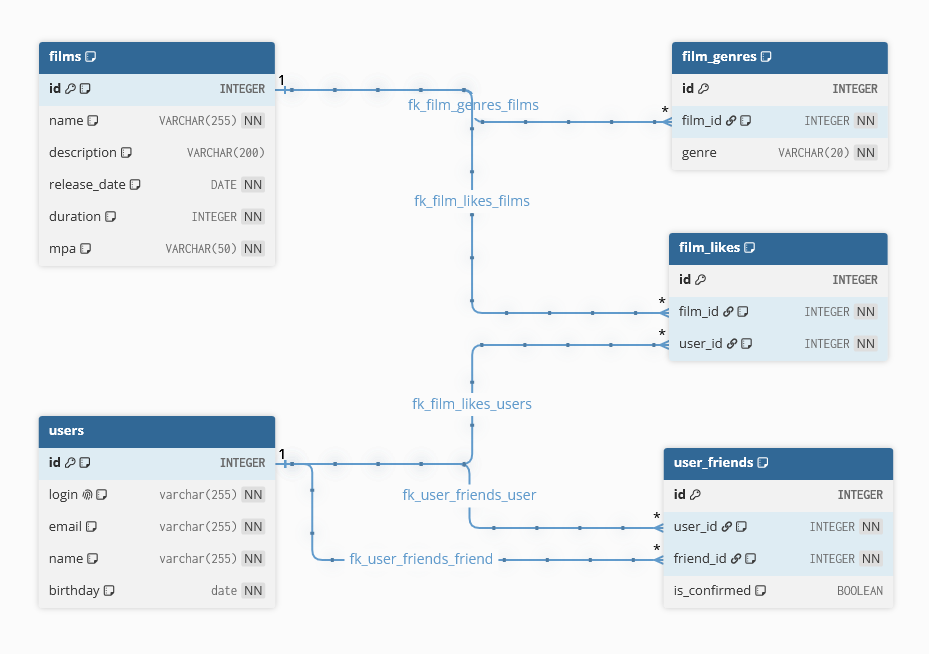
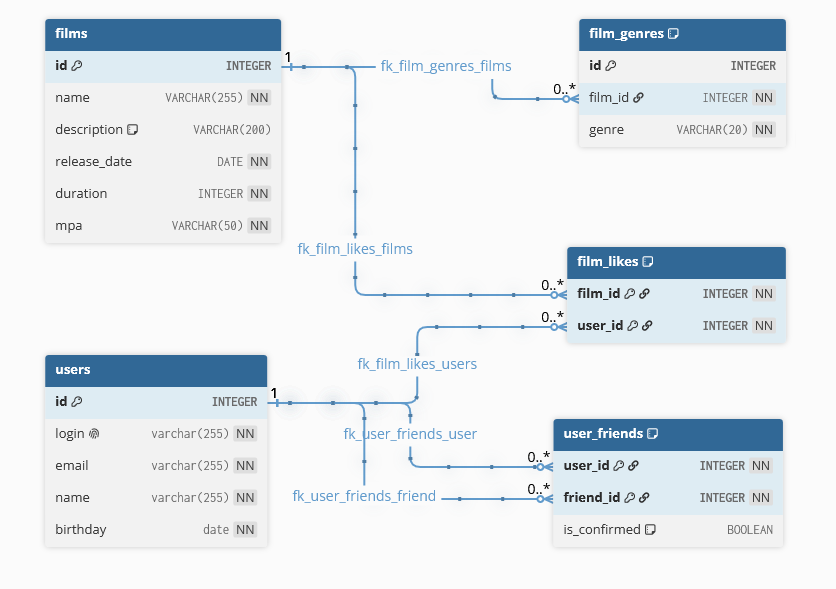
Fix reviewer comment: - useless surrogate keys on user_friends & film_likes DB tables - unnecessary annotations

diff --git a/src/main/java/ru/yandex/practicum/filmorate/storage/like/DbLikeStorage.java b/src/main/java/ru/yandex/practicum/filmorate/storage/like/DbLikeStorage.java
@@ -1,6 +1,5 @@
 package ru.yandex.practicum.filmorate.storage.like;
 
-import lombok.extern.slf4j.Slf4j;
 import org.springframework.beans.factory.annotation.Qualifier;
 import org.springframework.jdbc.core.JdbcTemplate;
 import org.springframework.jdbc.core.RowMapper;
@@ -11,10 +10,9 @@ import ru.yandex.practicum.filmorate.storage.BaseDbStorage;
 import java.util.*;
 import java.util.stream.Collectors;
 
-@Slf4j
 @Repository
 @Qualifier("dbLikeStorage")
-public class DbLikeStorage extends BaseDbStorage<FilmLike> implements LikeStorage  {
+public class DbLikeStorage extends BaseDbStorage<FilmLike> implements LikeStorage {
 
     public DbLikeStorage(JdbcTemplate jdbc, RowMapper<FilmLike> mapper) {
         super(jdbc, mapper);

diff --git a/src/main/java/ru/yandex/practicum/filmorate/storage/friend/DbFriendStorage.java b/src/main/java/ru/yandex/practicum/filmorate/storage/friend/DbFriendStorage.java
@@ -1,6 +1,5 @@
 package ru.yandex.practicum.filmorate.storage.friend;
 
-import lombok.extern.slf4j.Slf4j;
 import org.springframework.beans.factory.annotation.Qualifier;
 import org.springframework.jdbc.core.JdbcTemplate;
 import org.springframework.jdbc.core.RowMapper;
@@ -12,7 +11,6 @@ import java.util.List;
 
 import static ru.yandex.practicum.filmorate.storage.friend.DbFriendStorageQueries.*;
 
-@Slf4j
 @Repository
 @Qualifier("dbFriendStorage")
 public class DbFriendStorage extends BaseDbStorage<FriendLink> implements FriendStorage {
